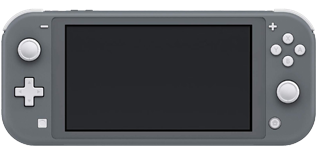
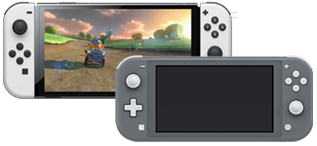
Added OLED

diff --git a/src/static/js/vercheck.js b/src/static/js/vercheck.js
@@ -6,13 +6,13 @@ function checkSerial() {
             var series = x.value.substring(1, 2).toUpperCase();
             var sn;
             
-            var failed='<div class="failed checker_p">Уязвимость устранена</div><p>Вы не сможете прошить приставку методом <a href="https://switch.customfw.xyz/fusee-gelee">Fusée Gelée</a>.</p><p>Перейдите в <strong>Системные настройки</strong> -> <strong>Система</strong> и обратите внимание на пункт "<strong>Текущая версия системы</strong>". Если <strong>версия системного ПО на консоли 4.1.0</strong>, то её можно прошить с помощью <a class="checker_a" href="http://switch.customfw.xyz/caffeine">Caffeine</a></p><img class="checker_img" src="img/system-version.jpg" alt="Версия системного ПО"><p>Если версия системного ПО выше указанной, то всё что вам остаётся - чиповка. Для вашей приставки подойдёт <strong>чип SX Core.</strong></p><p><strong>Подробнее про чипы <a href="https://switch.customfw.xyz/modchip">в руководстве</a>. Там же можно сделать заказ.</strong></p>';
+            var failed='<div class="failed checker_p">Уязвимость устранена</div><p>Вы не сможете прошить приставку методом <a href="https://switch.customfw.xyz/fusee-gelee">Fusée Gelée</a>.</p><p>Перейдите в <strong>Системные настройки</strong> -> <strong>Система</strong> и обратите внимание на пункт "<strong>Текущая версия системы</strong>". Если <strong>версия системного ПО на консоли 4.1.0</strong>, то её можно прошить с помощью <a class="checker_a" href="http://switch.customfw.xyz/caffeine">Caffeine</a></p><img class="checker_img" src="img/system-version.jpg" alt="Версия системного ПО"><p>Если версия системного ПО выше указанной, то всё что вам остаётся - чиповка. Для вашей приставки подойдёт <strong>чип SX или его аналога HWFLY.</strong></p><p><strong>Подробнее про чипы <a href="https://switch.customfw.xyz/modchip">в руководстве</a>. Там же можно сделать заказ.</strong></p>';
 
             var maybe='<div class="maybe checker_p">Уязвимость возможно устранена</div><p class="checker_p">Это значит, что невозможно определить с помощью серийного номера можно ли прошить приставку через <a class="checker_a" href="http://switch.customfw.xyz/fusee-gelee">Fusée Gelée</a> или нет. Единственный верный способ, который поможет понять прошивается ваша приставка или нет без покупки чипа - <a class="checker_a" href="http://switch.customfw.xyz/fusee-gelee">попробовать</a>. </p><p class="checker_p"><strong>Если уязвимость присутствует то приставка запустит переданный ей пейлоад.</strong> Если нет, экран останется чёрным, хотя в окне tegrarcmGUI и будет показано, что пейлоад проброшен успешно. В логе программы будет указано значение <strong>0x0000</strong>. Это означает, что вашу приставку нельзя прошить с помощью <a class="checker_a" href="http://switch.customfw.xyz/fusee-gelee">Fusée Gelée</a></p><img class="checker_img" src="img/tegra.png"></p><p class="checker_p">Если это ваш случай, то для вашей приставки подойдёт <strong>чип SX Core.</strong></p><p class="checker_p"><strong>Подробнее про чипы <a href="https://switch.customfw.xyz/modchip">в руководстве</a>. Там же можно сделать заказ.</strong></p>';
 
             var passed='<div class="passed checker_p">Уязвимость присутствует</div><p class="checker_p">Вы можете прошить свою приставку методом <a href="https://switch.customfw.xyz/fusee-gelee">Fusée Gelée</a>. Для этого перейдите по ссылке и внимательно следуйте инструкции!';
 
-            var new_revision='<div class="new_revision checker_p">Ваша приставка новой ревизии и прошивается только с помощью чипа SX Core</div><p class="checker_p"><strong>Подробнее про чипы <a href="https://switch.customfw.xyz/modchip">в руководстве</a>. Там же можно сделать заказ.</strong></p>';
+            var new_revision='<div class="new_revision checker_p">Ваша приставка новой ревизии и прошивается только с помощью чипа SX или HWFLY</div><p class="checker_p"><strong>Подробнее про чипы <a href="https://switch.customfw.xyz/modchip">в руководстве</a>. Там же можно сделать заказ.</strong></p>';
 
             var unknown='<div class="unknown checker_p">Нет информации по введённому серийному номеру</div><p class="checker_p">Проверьте, правильно ли вы ввели серийный номер</p><p class="checker_p">Если серийный номер всё-таки введён верно, значит серийников такого типа ещё нет в нашей базе. Возможно, приставка выпускалась эксклюзивно для китайского региона. </p><p class="checker_p">В любом случае, если серийник введён верно, то вашу приставку нельзя прошить с помощью <a class="checker_a" href="http://switch.customfw.xyz/fusee-gelee">Fusée Gelée</a>. Если это ваш случай, то для вашей приставки подойдёт <strong>чип SX Core.</strong></p><p class="checker_p"><strong>Подробнее про чипы <a href="https://switch.customfw.xyz/modchip">в руководстве</a>. Там же можно сделать заказ.</strong></p>';
 

diff --git a/src/static/js/main.js b/src/static/js/main.js
@@ -9,7 +9,7 @@
 		
 		this.result1Content = '<p class="checker_p"><strong>Введите первые 9 символов серийного номера консоли.</strong></p><p class="checker_p">Серийный номер консоли расположен на нижней грани самого планшета. Если приставка б\у, то убедитесь, что серийный номер на корпусе совпадает с тем, что указан в <strong>Системных настройках</strong> -> <strong>Система</strong> -> <strong>Серийные номера</strong>. Если после ввода серийника ничего не происходит, отключите блокировщик рекламы<div class="checker"><input class="inputtext" type="text" id="nxsn" name="country_code" pattern="[xX][aAkKjJtT][wWjJkKeE](1|4|7|9)[0-9]+" placeholder="XAW100000" onkeyup="checkSerial()"></div>';
 
-		this.result2Content = '<div class="new_revision checker_p">Nintendo Switch Lite прошивается только с помощью чипа SX Lite</div><p class="checker_p"><strong>Подробнее про чипы <a href="https://switch.customfw.xyz/modchip">в руководстве</a>.</strong></p>';
+		this.result2Content = '<div class="new_revision checker_p">Nintendo Switch Lite и Nintendo Switch OLED прошивается только с помощью чипа SX Lite или чипов линейки HWFLY</div><p class="checker_p"><strong>Подробнее про чипы <a href="https://switch.customfw.xyz/modchip">в руководстве</a>.</strong></p>';
 
 		this.resultEmpty = '';
 };
